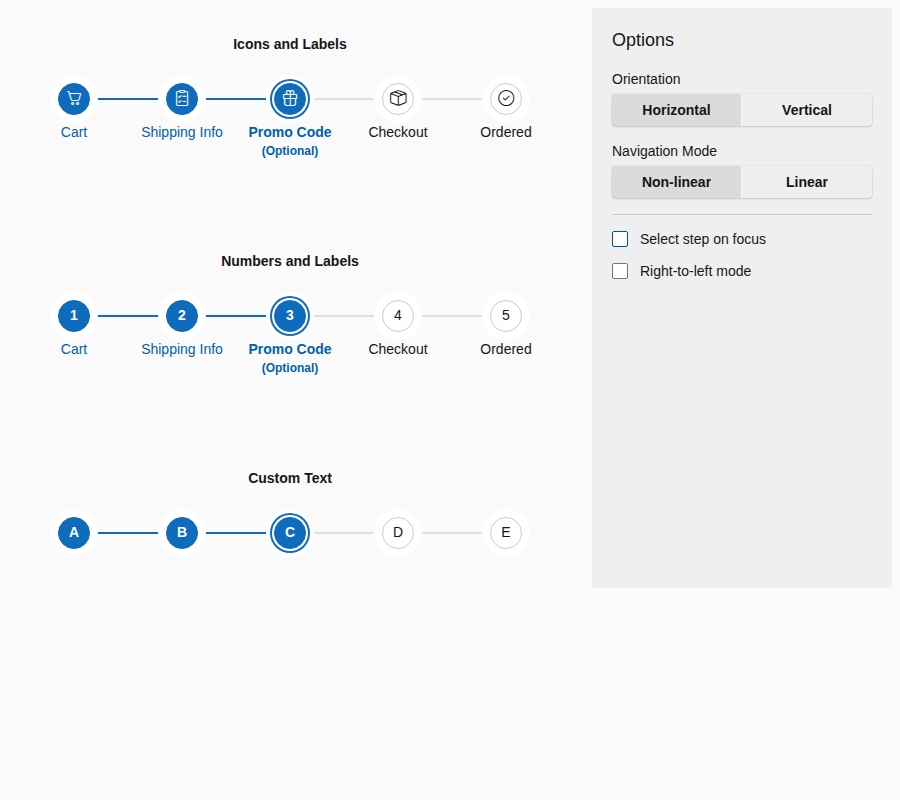
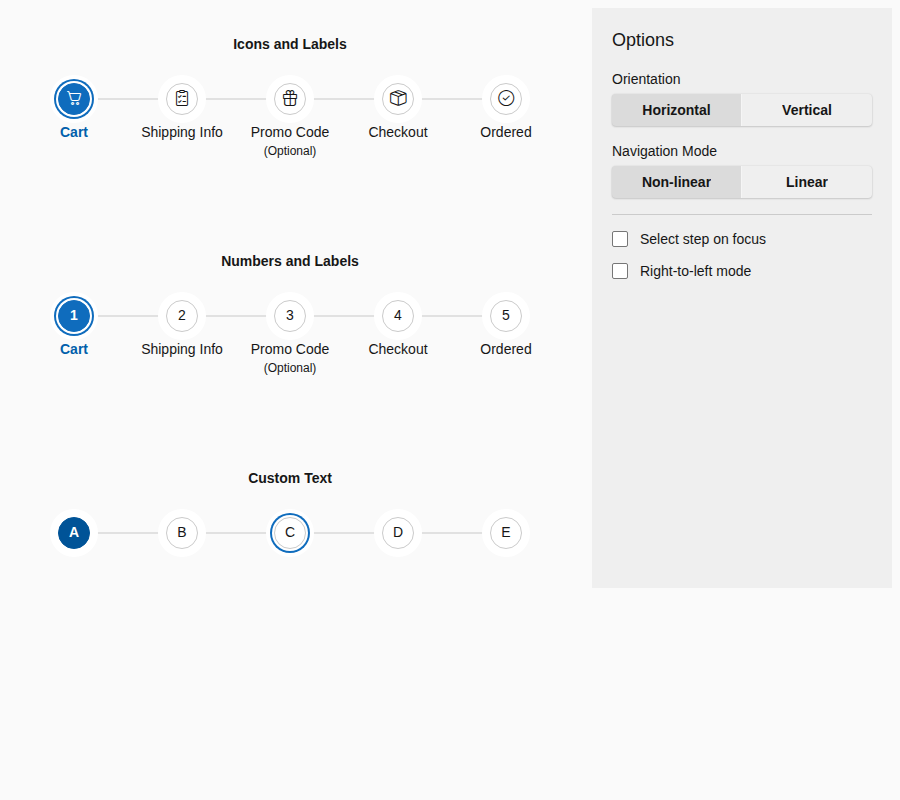
Demos: check the Stepper navigation in the widget test

diff --git a/apps/demos/testing/widgets/stepper/Overview.spec.ts b/apps/demos/testing/widgets/stepper/Overview.spec.ts
@@ -1,10 +1,23 @@
-import { test } from '@playwright/test';
+import { expect, test } from '@playwright/test';
+import type { Locator, Page } from '@playwright/test';
 import { describeManualTest, testScreenshot } from '../../../utils/visual-tests/playwright/manual-test';
 
 const ORIENTATION_BUTTON_GROUP_ID = 'orientation';
 const NAVIGATION_MODE_BUTTON_GROUP_ID = 'navigationMode';
 const RTL_MODE_CHECK_BOX_ID = 'rtlMode';
 const SELECT_ON_FOCUS_CHECK_BOX_ID = 'selectOnFocus';
+const STEPPER_IDS = ['icons', 'numbers', 'customText'];
+const STEP_SELECTED_CLASS = /\bdx-step-selected\b/;
+const FOCUSED_STATE_CLASS = /\bdx-state-focused\b/;
+
+const forEachStepper = async (
+  page: Page,
+  check: (step: (index: number) => Locator) => Promise<void>,
+): Promise<void> => {
+  for (const id of STEPPER_IDS) {
+    await check((index) => page.locator(`#${id} .dx-step`).nth(index));
+  }
+};
 
 describeManualTest('Stepper', 'Overview', { width: 900, height: 800 }, () => {
   test('Stepper Overview Appearance', async ({ page }) => {
@@ -24,9 +37,35 @@ describeManualTest('Stepper', 'Overview', { width: 900, height: 800 }, () => {
     await orientationButtons.nth(0).click();
 
     await navigationModeButtons.nth(1).click();
+
+    await forEachStepper(page, async (step) => {
+      await step(0).click();
+      await expect(step(2)).toHaveClass(STEP_SELECTED_CLASS);
+    });
+
     await navigationModeButtons.nth(0).click();
 
+    await forEachStepper(page, async (step) => {
+      await step(0).click();
+      await expect(step(0)).toHaveClass(STEP_SELECTED_CLASS);
+    });
+
+    await forEachStepper(page, async (step) => {
+      await step(1).click();
+      await page.keyboard.press('ArrowRight');
+      await expect(step(2)).toHaveClass(STEP_SELECTED_CLASS);
+      await expect(step(2)).toHaveClass(FOCUSED_STATE_CLASS);
+    });
+
     await page.locator(`#${SELECT_ON_FOCUS_CHECK_BOX_ID}`).click();
+
+    await forEachStepper(page, async (step) => {
+      await step(0).click();
+      await page.keyboard.press('ArrowRight');
+      await page.keyboard.press('ArrowRight');
+      await expect(step(2)).not.toHaveClass(STEP_SELECTED_CLASS);
+      await expect(step(2)).toHaveClass(FOCUSED_STATE_CLASS);
+    });
 
     await testScreenshot(page, 'Stepper overview selectOnFocus=false.png');
   });
